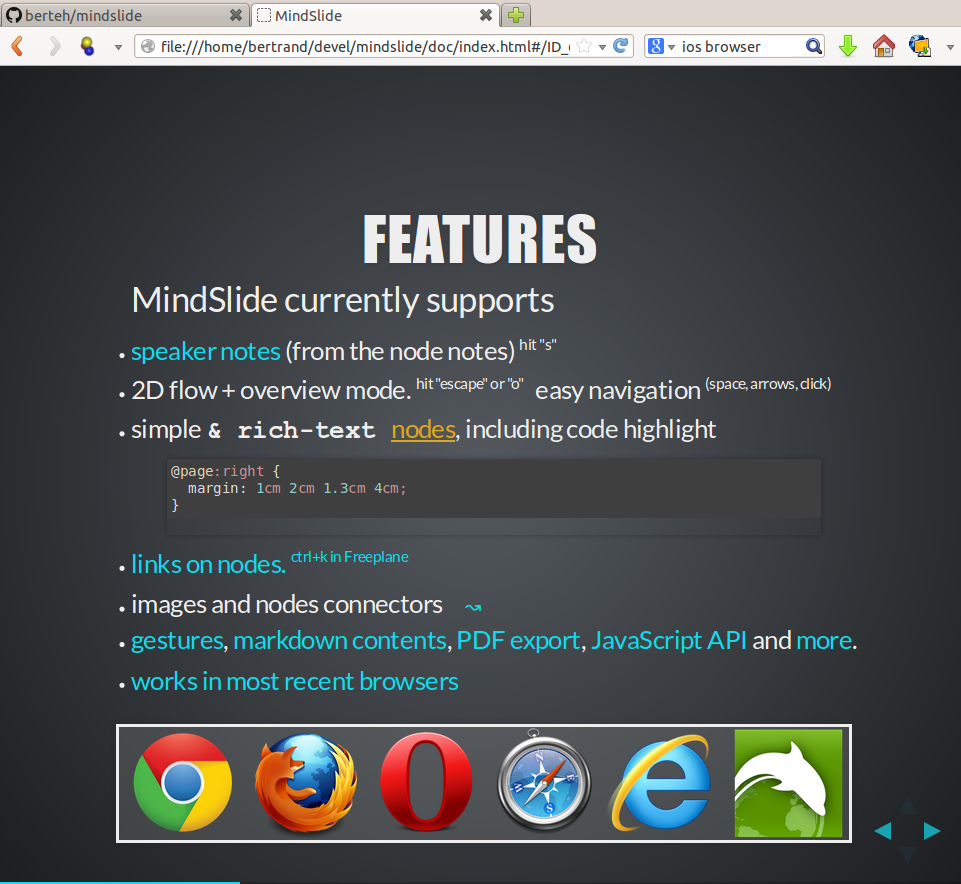
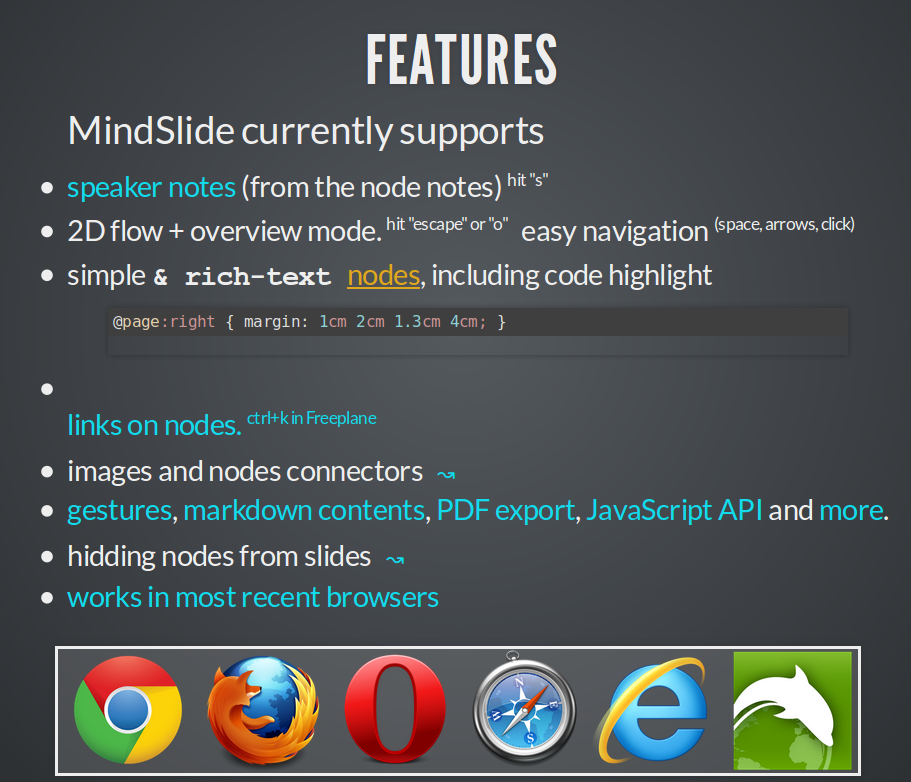
add feature to hide selected nodes, implement #13 as attribute 'slide-hide' to add manually to nodes you want to hide. Children (and notes) of hidden nodes are hidden as well.

diff --git a/index.html b/index.html
@@ -109,12 +109,10 @@
 </li>
 <li>
 <p>
-      simple <font face="Courier New, Courier, Nimbus Mono L, serif, monospace"><b style="font-family: Courier New, Courier, Nimbus Mono L, serif, monospace">&amp; rich-text </b></font><u><font color="#e1a71c">nodes</font></u>, including code highlight
+      simple <b style="font-family: Courier New, Courier, Nimbus Mono L, serif, monospace"><font face="Courier New, Courier, Nimbus Mono L, serif, monospace">&amp; rich-text </font></b><font color="#e1a71c"><u>nodes</u></font>, including code highlight
     </p>
 <pre>
-<code class="css">@page:right { 
-  margin: 1cm 2cm 1.3cm 4cm; 
-}</code>
+<code class="css">@page:right { margin: 1cm 2cm 1.3cm 4cm; }</code>
 </pre>
 </li>
 <li>
@@ -130,6 +128,8 @@
 <p>
 <a href="https://github.com/hakimel/reveal.js#leap-motion">gestures</a>, <a href="https://github.com/hakimel/reveal.js#markdown">markdown contents</a>, <a href="https://github.com/hakimel/reveal.js#pdf-export">PDF export</a>, <a href="https://github.com/hakimel/reveal.js#api">JavaScript API</a>&nbsp;and <a href="https://github.com/hakimel/reveal.js#instructions">more</a>.
     </p>
+</li>
+<li>hidding nodes from slides<a href="#/ID_378704017" class="link connector"> &#8605;</a>
 </li>
 <li>
 <a href="https://github.com/hakimel/reveal.js/wiki/Browser-Support" class="link external">works in most recent browsers</a>
@@ -151,7 +151,7 @@
       </li>
 </ul>
 <p>
-      Images support is only partial as it depends on the browser to find them , usually relative adress in a sub-directory is fine.
+      Images support is only partial as it depends on the browser to find them, usually relative adress in a sub-directory is fine.
     </p>
 <p>
       Help in improving this part is higly welcome.
@@ -215,6 +215,8 @@
 <li>Install MindSlide<a href="#/ID_1405033759" class="link subsection"> &#8628;</a>
 </li>
 <li>Configure<a href="#/ID_1593867677" class="link subsection"> &#8628;</a>
+</li>
+<li>Hide Nodes<a href="#/ID_378704017" class="link subsection"> &#8628;</a>
 </li>
 <li>View Speakers Notes<a href="#/ID_1605694183" class="link subsection"> &#8628;</a>
 </li>
@@ -283,6 +285,33 @@ git submodule update --init</code>
 <aside class="notes">
 <p>
       &nbsp;
+    </p>
+</aside>
+</section>
+<section class="content" id="ID_378704017">
+<h3>Hide Nodes</h3>
+<ul>
+<li>Great for creating content in Freeplane, and presenting only when it's ready.</li>
+<li>
+<p>
+      To hide a node from your mindslides simply add the attribute "slide-hide" to it:
+    </p>
+<pre>      right-click &gt; edit attribute in-line &gt; add or select "slide-hide"</pre>
+</li>
+</ul>
+<div class="illustrations w1">
+<a href="assets/hidden-node.png" class="image" title="
+      To hide a node from your mindslides simply add the attribute &quot;slide-hide&quot; to it:
+          right-click > edit attribute in-line > add or select &quot;slide-hide&quot;"><img src="assets/hidden-node.png" alt="
+      To hide a node from your mindslides simply add the attribute &quot;slide-hide&quot; to it:
+          right-click > edit attribute in-line > add or select &quot;slide-hide&quot;"></a>
+</div>
+<aside class="notes">
+<p>
+      The original mindmap has more content in this node... but it does not show in your slides.
+    </p>
+<p>
+      Great for creating content in Freeplane, and presenting only when it's ready.
     </p>
 </aside>
 </section>
@@ -401,16 +430,12 @@ git submodule update --init</code>
             transition: Reveal.getQueryHash().transition || 'concave', // default/cube/page/concave/zoom/linear/fade/none
 
             
-        // Optional libraries used to extend on reveal.js
+        // Optional libraries used to extend on reveal.js - see https://github.com/hakimel/reveal.js#dependencies
         dependencies: [
-        { src: 'reveal.js/lib/js/classList.js', condition: function() { return
-        !document.body.classList; } },
-        { src: 'reveal.js/plugin/highlight/highlight.js', async: true, callback: function()
-        { hljs.initHighlightingOnLoad(); } },
-        { src: 'reveal.js/plugin/zoom-js/zoom.js', async: true, condition: function() {
-        return !!document.body.classList; } },
-        { src: 'reveal.js/plugin/notes/notes.js', async: true, condition: function() {
-        return !!document.body.classList; } }
+        { src: 'reveal.js/lib/js/classList.js', condition: function() { return !document.body.classList; } },
+        { src: 'reveal.js/plugin/highlight/highlight.js', async: true, callback: function() { hljs.initHighlightingOnLoad(); } },
+        { src: 'reveal.js/plugin/zoom-js/zoom.js', async: true, condition: function() { return !!document.body.classList; } },
+        { src: 'reveal.js/plugin/notes/notes.js', async: true, condition: function() { return !!document.body.classList; } }
         ]
         });
     </script>

diff --git a/MindSlide-Export.mm b/MindSlide-Export.mm
@@ -1,7 +1,7 @@
 <map version="freeplane 1.2.0">
 <!--To view this file, download free mind mapping software Freeplane from http://freeplane.sourceforge.net -->
 <attribute_registry SHOW_ATTRIBUTES="selected"/>
-<node TEXT="MindSlide" ID="ID_1723255651" CREATED="1283093380553" MODIFIED="1378377043488"><hook NAME="MapStyle" zoom="1.1">
+<node TEXT="MindSlide" ID="ID_1723255651" CREATED="1283093380553" MODIFIED="1401981525034"><hook NAME="MapStyle" zoom="1.1">
     <properties show_icon_for_attributes="true" show_note_icons="true"/>
 
 <map_styles>
@@ -51,7 +51,7 @@
 </stylenode>
 </map_styles>
 </hook>
-<hook NAME="AutomaticEdgeColor" COUNTER="5"/>
+<hook NAME="AutomaticEdgeColor" COUNTER="7"/>
 <attribute NAME="version" VALUE="20130901" OBJECT="org.freeplane.features.format.FormattedNumber|20130901"/>
 <attribute NAME="Author" VALUE="Berteh"/>
 <node TEXT="View your Mindmap as an HTML presentation / slideshow" POSITION="right" ID="ID_212678608" CREATED="1377866384042" MODIFIED="1378374500407">
@@ -149,7 +149,7 @@
 </html>
 </richcontent>
 </node>
-<node ID="ID_765812044" CREATED="1377866554077" MODIFIED="1378374696422"><richcontent TYPE="NODE">
+<node ID="ID_765812044" CREATED="1377866554077" MODIFIED="1401984309302"><richcontent TYPE="NODE">
 
 <html>
   <head>
@@ -157,13 +157,12 @@
   </head>
   <body>
     <p>
-      simple <font face="Courier New, Courier, Nimbus Mono L, serif, monospace"><b style="font-family: Courier New, Courier, Nimbus Mono L, serif, monospace">&amp; rich-text </b></font><font color="#e1a71c"><u>nodes</u></font>, including code highlight
+      simple <b style="font-family: Courier New, Courier, Nimbus Mono L, serif, monospace"><font face="Courier New, Courier, Nimbus Mono L, serif, monospace">&amp; rich-text </font></b><font color="#e1a71c"><u>nodes</u></font>, including code highlight
     </p>
-    <pre><code class="css">@page:right { 
-  margin: 1cm 2cm 1.3cm 4cm; 
-}</code></pre>
+    <pre><code class="css">@page:right { margin: 1cm 2cm 1.3cm 4cm; }</code></pre>
   </body>
 </html>
+
 </richcontent>
 </node>
 <node ID="ID_594361534" CREATED="1377866613085" MODIFIED="1378377504510" LINK="https://github.com/berteh/mindslide"><richcontent TYPE="NODE">
@@ -180,7 +179,7 @@
 </html>
 </richcontent>
 </node>
-<node TEXT="images and nodes connectors" ID="ID_906971272" CREATED="1377866777469" MODIFIED="1378389823591"><richcontent TYPE="NOTE">
+<node TEXT="images and nodes connectors" ID="ID_906971272" CREATED="1377866777469" MODIFIED="1401984402610"><richcontent TYPE="NOTE">
 
 <html>
   <head>
@@ -188,13 +187,14 @@
   </head>
   <body>
     <p>
-      Images support is only partial as it depends on the browser to find them , usually relative adress in a sub-directory is fine.
+      Images support is only partial as it depends on the browser to find them, usually relative adress in a sub-directory is fine.
     </p>
     <p>
       Help in improving this part is higly welcome.
     </p>
   </body>
 </html>
+
 </richcontent>
 <arrowlink SHAPE="CUBIC_CURVE" COLOR="#000000" WIDTH="2" TRANSPARENCY="80" FONT_SIZE="9" FONT_FAMILY="SansSerif" DESTINATION="ID_1494003336" STARTINCLINATION="299;-5;" ENDINCLINATION="590;0;" STARTARROW="NONE" ENDARROW="DEFAULT"/>
 </node>
@@ -211,6 +211,9 @@
   </body>
 </html>
 </richcontent>
+</node>
+<node TEXT="hidding nodes from slides" ID="ID_1778852033" CREATED="1401981390393" MODIFIED="1401984441020">
+<arrowlink SHAPE="CUBIC_CURVE" COLOR="#000000" WIDTH="2" TRANSPARENCY="80" FONT_SIZE="9" FONT_FAMILY="SansSerif" DESTINATION="ID_378704017" STARTINCLINATION="195;0;" ENDINCLINATION="195;0;" STARTARROW="NONE" ENDARROW="DEFAULT"/>
 </node>
 <node TEXT="works in most recent browsers" ID="ID_1942350131" CREATED="1377867277349" MODIFIED="1378375703778" LINK="https://github.com/hakimel/reveal.js/wiki/Browser-Support">
 <hook URI="assets/chrome_firefox_opera_safari_ie_dolphin.png" SIZE="0.10520631" NAME="ExternalObject"/>
@@ -386,6 +389,63 @@ git submodule update --init</code></pre>
 </node>
 <node TEXT="developpers may load extra librairies by editing reveal-configuration.xsl in freeplane/xslt too." ID="ID_1691472387" CREATED="1379066226604" MODIFIED="1379066253209"/>
 <node TEXT="see reveal.js configuration" ID="ID_1201663334" CREATED="1377993908853" MODIFIED="1377993985014" LINK="https://github.com/hakimel/reveal.js#configuration"/>
+</node>
+<node TEXT="Hide Nodes" ID="ID_378704017" CREATED="1401981390393" MODIFIED="1401981798026"><richcontent TYPE="NOTE">
+
+<html>
+  <head>
+    
+  </head>
+  <body>
+    <p>
+      The original mindmap has more content in this node... but it does not show in your slides.
+    </p>
+    <p>
+      Great for creating content in Freeplane, and presenting only when it's ready.
+    </p>
+  </body>
+</html>
+</richcontent>
+<node TEXT="Great for creating content in Freeplane, and presenting only when it&apos;s ready." ID="ID_934607387" CREATED="1401982775751" MODIFIED="1401982777749">
+<node TEXT="Indeed" ID="ID_12152597" CREATED="1401982778911" MODIFIED="1401982789291">
+<attribute NAME="slide-hide" VALUE=""/>
+</node>
+</node>
+<node TEXT="Some nodes (and their children) can be excluded from the slides" ID="ID_63864419" CREATED="1401981397824" MODIFIED="1401983620699">
+<attribute NAME="slide-hide" VALUE=""/>
+<richcontent TYPE="NOTE">
+
+<html>
+  <head>
+    
+  </head>
+  <body>
+    <p>
+      Notes of hidden nodes don't display either
+    </p>
+  </body>
+</html>
+
+</richcontent>
+<node TEXT="Children of hidden notes are hidden as well." ID="ID_1650241205" CREATED="1401981622444" MODIFIED="1401981764235"/>
+</node>
+<node ID="ID_1904486340" CREATED="1401981843061" MODIFIED="1401983782171"><richcontent TYPE="NODE">
+
+<html>
+  <head>
+    
+  </head>
+  <body>
+    <p>
+      To hide a node from your mindslides simply add the attribute &quot;slide-hide&quot; to it:
+    </p>
+    <pre>      right-click &gt; edit attribute in-line &gt; add or select &quot;slide-hide&quot;</pre>
+  </body>
+</html>
+
+</richcontent>
+<hook URI="assets/hidden-node.png" SIZE="0.2695155" NAME="ExternalObject"/>
+</node>
 </node>
 <node TEXT="View Speakers Notes" ID="ID_1605694183" CREATED="1378390526444" MODIFIED="1378391591570">
 <node ID="ID_254618814" CREATED="1378390551836" MODIFIED="1378392970150"><richcontent TYPE="NODE">
